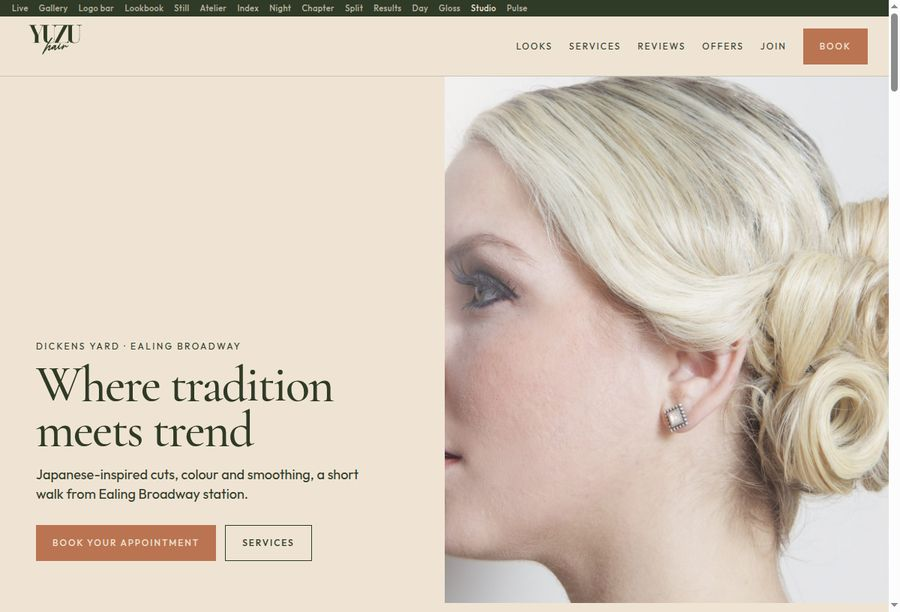
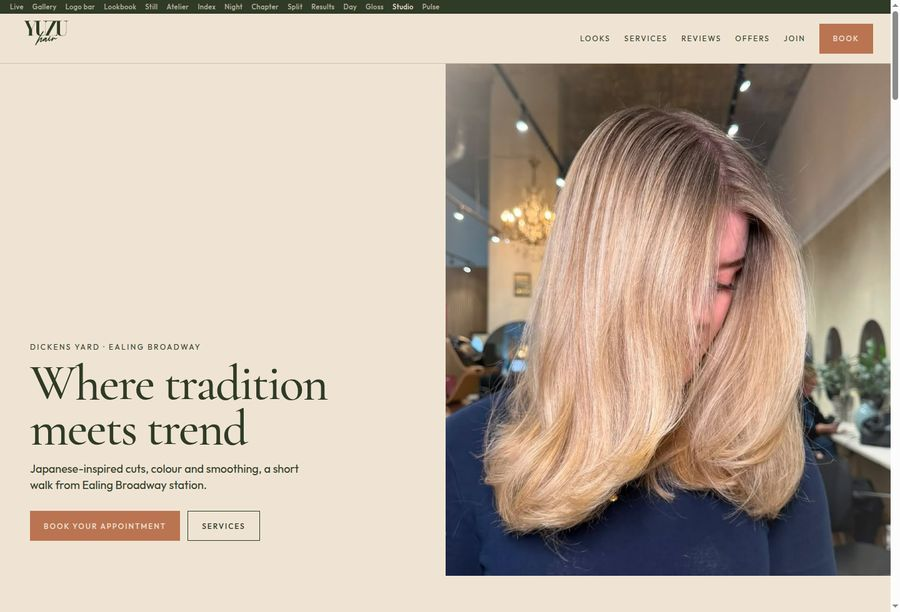
Use the Results blonde and balayage on Gloss, Studio, and Pulse.
Soft blonde replaces the sourced blonde updo, and copper balayage replaces the inverted bob, including the Studio and Pulse heroes.

diff --git a/site/versions/pulse.html b/site/versions/pulse.html
@@ -8,7 +8,7 @@
   <link rel="stylesheet" href="fonts/fonts.css" />
   <link rel="stylesheet" href="brand.css?v=2" />
   <link rel="stylesheet" href="promo.css?v=2" />
-  <link rel="stylesheet" href="fresh.css?v=1" />
+  <link rel="stylesheet" href="fresh.css?v=2" />
   <meta name="robots" content="noindex" />
   <link rel="stylesheet" href="versions-bar.css?v=5" />
 </head>
@@ -31,7 +31,7 @@
     </nav>
   </header>
   <section class="hero hero-float">
-    <span class="shine hero-photo"><img src="img/fresh/inverted-bob.jpg" alt="Inverted bob, cut blunt at the jaw" width="1800" height="1800" fetchpriority="high" /></span>
+    <span class="shine hero-photo"><img src="img/looks/copper-balayage.jpg" alt="Copper balayage, seen from behind in the salon chair" width="1080" height="1137" fetchpriority="high" /></span>
     <div class="hero-copy">
       <p class="kicker">Dickens Yard · Ealing Broadway</p>
       <h1>Where tradition meets trend</h1>
@@ -56,8 +56,8 @@
       </li>
       <li>
         <figure>
-          <span class="shine"><img src="img/fresh/blonde-updo.jpg" alt="Blonde updo in profile" width="1800" height="1440" loading="lazy" /></span>
-          <figcaption>Blonde updo</figcaption>
+          <span class="shine"><img src="img/looks/blonde-layers.jpg" alt="Soft blonde layers, photographed in the salon" width="1080" height="1080" loading="lazy" /></span>
+          <figcaption>Soft blonde</figcaption>
         </figure>
       </li>
       <li>
@@ -232,7 +232,7 @@
       <h2>Hours</h2>
       <p>Tuesday – Friday, 10am – 8pm<br />Saturday, 9am – 6pm<br />Monday &amp; Sunday, closed</p>
     </div>
-    <p class="credit">Photographs: long blonde waves, ivanovgood, CC0. Blonde updo, Elmo Love, CC BY 2.0. Inverted bob, Thirteen Of Clubs, CC BY-SA 2.0. Salon interior, Ka23 13, CC BY-SA 4.0. Stylist cutting, Rohit Verma, CC BY-SA 4.0. Braids, Rwebogora, CC BY-SA 4.0. Salon floor, Mostafa Meraji, CC0. Via Wikimedia Commons. These are not photographs of Yuzu clients.</p>
+    <p class="credit">Photographs: soft blonde and copper balayage, Yuzu Hair. Long blonde waves, ivanovgood, CC0. Salon interior, Ka23 13, CC BY-SA 4.0. Stylist cutting, Rohit Verma, CC BY-SA 4.0. Braids, Rwebogora, CC BY-SA 4.0. Salon floor, Mostafa Meraji, CC0. Via Wikimedia Commons. The other photographs are not of Yuzu clients.</p>
     <p class="legal">© 2026 Yuzu Hair &amp; Beauty · <a href="https://yuzu.hair/about/">About</a> · <a href="https://yuzu.hair/questions/">Questions</a> · <a href="https://yuzu.hair/patch/">Patch testing</a> · <a href="https://yuzu.hair/terms/">Terms</a> · <a href="https://yuzu.hair/privacy/">Privacy</a></p>
   </footer>
   <script src="menu.js?v=2"></script>

diff --git a/site/versions/studio.html b/site/versions/studio.html
@@ -8,7 +8,7 @@
   <link rel="stylesheet" href="fonts/fonts.css" />
   <link rel="stylesheet" href="brand.css?v=2" />
   <link rel="stylesheet" href="promo.css?v=2" />
-  <link rel="stylesheet" href="fresh.css?v=1" />
+  <link rel="stylesheet" href="fresh.css?v=2" />
   <meta name="robots" content="noindex" />
   <link rel="stylesheet" href="versions-bar.css?v=5" />
 </head>
@@ -40,7 +40,7 @@
           <a class="fx-ghost" href="#services">Services</a>
         </div>
     </div>
-    <span class="shine hero-photo"><img src="img/fresh/blonde-updo.jpg" alt="Blonde updo in profile" width="1800" height="1440" fetchpriority="high" /></span>
+    <span class="shine hero-photo"><img src="img/looks/blonde-layers.jpg" alt="Soft blonde layers, photographed in the salon" width="1080" height="1080" fetchpriority="high" /></span>
   </section>
   <section class="section" id="looks">
     <div class="section-head">
@@ -56,8 +56,8 @@
       </li>
       <li>
         <figure>
-          <span class="shine"><img src="img/fresh/inverted-bob.jpg" alt="Inverted bob, cut blunt at the jaw" width="1800" height="1800" loading="lazy" /></span>
-          <figcaption>Inverted bob</figcaption>
+          <span class="shine"><img src="img/looks/copper-balayage.jpg" alt="Copper balayage, seen from behind in the salon chair" width="1080" height="1137" loading="lazy" /></span>
+          <figcaption>Copper balayage</figcaption>
         </figure>
       </li>
       <li>
@@ -232,7 +232,7 @@
       <h2>Hours</h2>
       <p>Tuesday – Friday, 10am – 8pm<br />Saturday, 9am – 6pm<br />Monday &amp; Sunday, closed</p>
     </div>
-    <p class="credit">Photographs: long blonde waves, ivanovgood, CC0. Blonde updo, Elmo Love, CC BY 2.0. Inverted bob, Thirteen Of Clubs, CC BY-SA 2.0. Salon interior, Ka23 13, CC BY-SA 4.0. Stylist cutting, Rohit Verma, CC BY-SA 4.0. Braids, Rwebogora, CC BY-SA 4.0. Salon floor, Mostafa Meraji, CC0. Via Wikimedia Commons. These are not photographs of Yuzu clients.</p>
+    <p class="credit">Photographs: soft blonde and copper balayage, Yuzu Hair. Long blonde waves, ivanovgood, CC0. Salon interior, Ka23 13, CC BY-SA 4.0. Stylist cutting, Rohit Verma, CC BY-SA 4.0. Braids, Rwebogora, CC BY-SA 4.0. Salon floor, Mostafa Meraji, CC0. Via Wikimedia Commons. The other photographs are not of Yuzu clients.</p>
     <p class="legal">© 2026 Yuzu Hair &amp; Beauty · <a href="https://yuzu.hair/about/">About</a> · <a href="https://yuzu.hair/questions/">Questions</a> · <a href="https://yuzu.hair/patch/">Patch testing</a> · <a href="https://yuzu.hair/terms/">Terms</a> · <a href="https://yuzu.hair/privacy/">Privacy</a></p>
   </footer>
   <script src="menu.js?v=2"></script>

diff --git a/site/versions/gloss.html b/site/versions/gloss.html
@@ -8,7 +8,7 @@
   <link rel="stylesheet" href="fonts/fonts.css" />
   <link rel="stylesheet" href="brand.css?v=2" />
   <link rel="stylesheet" href="promo.css?v=2" />
-  <link rel="stylesheet" href="fresh.css?v=1" />
+  <link rel="stylesheet" href="fresh.css?v=2" />
   <meta name="robots" content="noindex" />
   <link rel="stylesheet" href="versions-bar.css?v=5" />
 </head>
@@ -50,14 +50,14 @@
     <ul class="looks">
       <li>
         <figure>
-          <span class="shine"><img src="img/fresh/blonde-updo.jpg" alt="Blonde updo in profile" width="1800" height="1440" loading="lazy" /></span>
-          <figcaption>Blonde updo</figcaption>
+          <span class="shine"><img src="img/looks/blonde-layers.jpg" alt="Soft blonde layers, photographed in the salon" width="1080" height="1080" loading="lazy" /></span>
+          <figcaption>Soft blonde</figcaption>
         </figure>
       </li>
       <li>
         <figure>
-          <span class="shine"><img src="img/fresh/inverted-bob.jpg" alt="Inverted bob, cut blunt at the jaw" width="1800" height="1800" loading="lazy" /></span>
-          <figcaption>Inverted bob</figcaption>
+          <span class="shine"><img src="img/looks/copper-balayage.jpg" alt="Copper balayage, seen from behind in the salon chair" width="1080" height="1137" loading="lazy" /></span>
+          <figcaption>Copper balayage</figcaption>
         </figure>
       </li>
       <li>
@@ -232,7 +232,7 @@
       <h2>Hours</h2>
       <p>Tuesday – Friday, 10am – 8pm<br />Saturday, 9am – 6pm<br />Monday &amp; Sunday, closed</p>
     </div>
-    <p class="credit">Photographs: long blonde waves, ivanovgood, CC0. Blonde updo, Elmo Love, CC BY 2.0. Inverted bob, Thirteen Of Clubs, CC BY-SA 2.0. Salon interior, Ka23 13, CC BY-SA 4.0. Stylist cutting, Rohit Verma, CC BY-SA 4.0. Braids, Rwebogora, CC BY-SA 4.0. Salon floor, Mostafa Meraji, CC0. Via Wikimedia Commons. These are not photographs of Yuzu clients.</p>
+    <p class="credit">Photographs: soft blonde and copper balayage, Yuzu Hair. Long blonde waves, ivanovgood, CC0. Salon interior, Ka23 13, CC BY-SA 4.0. Stylist cutting, Rohit Verma, CC BY-SA 4.0. Braids, Rwebogora, CC BY-SA 4.0. Salon floor, Mostafa Meraji, CC0. Via Wikimedia Commons. The other photographs are not of Yuzu clients.</p>
     <p class="legal">© 2026 Yuzu Hair &amp; Beauty · <a href="https://yuzu.hair/about/">About</a> · <a href="https://yuzu.hair/questions/">Questions</a> · <a href="https://yuzu.hair/patch/">Patch testing</a> · <a href="https://yuzu.hair/terms/">Terms</a> · <a href="https://yuzu.hair/privacy/">Privacy</a></p>
   </footer>
   <script src="menu.js?v=2"></script>

diff --git a/site/versions/gloss-prices.html b/site/versions/gloss-prices.html
@@ -8,7 +8,7 @@
   <link rel="stylesheet" href="fonts/fonts.css" />
   <link rel="stylesheet" href="brand.css?v=2" />
   <link rel="stylesheet" href="promo.css?v=2" />
-  <link rel="stylesheet" href="fresh.css?v=1" />
+  <link rel="stylesheet" href="fresh.css?v=2" />
   <meta name="robots" content="noindex" />
   <link rel="stylesheet" href="versions-bar.css?v=5" />
 </head>
@@ -71,7 +71,7 @@
       <h2>Hours</h2>
       <p>Tuesday – Friday, 10am – 8pm<br />Saturday, 9am – 6pm<br />Monday &amp; Sunday, closed</p>
     </div>
-    <p class="credit">Photographs: long blonde waves, ivanovgood, CC0. Blonde updo, Elmo Love, CC BY 2.0. Inverted bob, Thirteen Of Clubs, CC BY-SA 2.0. Salon interior, Ka23 13, CC BY-SA 4.0. Stylist cutting, Rohit Verma, CC BY-SA 4.0. Braids, Rwebogora, CC BY-SA 4.0. Salon floor, Mostafa Meraji, CC0. Via Wikimedia Commons. These are not photographs of Yuzu clients.</p>
+    <p class="credit">Photographs: soft blonde and copper balayage, Yuzu Hair. Long blonde waves, ivanovgood, CC0. Salon interior, Ka23 13, CC BY-SA 4.0. Stylist cutting, Rohit Verma, CC BY-SA 4.0. Braids, Rwebogora, CC BY-SA 4.0. Salon floor, Mostafa Meraji, CC0. Via Wikimedia Commons. The other photographs are not of Yuzu clients.</p>
     <p class="legal">© 2026 Yuzu Hair &amp; Beauty · <a href="https://yuzu.hair/about/">About</a> · <a href="https://yuzu.hair/questions/">Questions</a> · <a href="https://yuzu.hair/patch/">Patch testing</a> · <a href="https://yuzu.hair/terms/">Terms</a> · <a href="https://yuzu.hair/privacy/">Privacy</a></p>
   </footer>
   <script src="menu.js?v=2"></script>

diff --git a/site/versions/pulse-prices.html b/site/versions/pulse-prices.html
@@ -8,7 +8,7 @@
   <link rel="stylesheet" href="fonts/fonts.css" />
   <link rel="stylesheet" href="brand.css?v=2" />
   <link rel="stylesheet" href="promo.css?v=2" />
-  <link rel="stylesheet" href="fresh.css?v=1" />
+  <link rel="stylesheet" href="fresh.css?v=2" />
   <meta name="robots" content="noindex" />
   <link rel="stylesheet" href="versions-bar.css?v=5" />
 </head>
@@ -71,7 +71,7 @@
       <h2>Hours</h2>
       <p>Tuesday – Friday, 10am – 8pm<br />Saturday, 9am – 6pm<br />Monday &amp; Sunday, closed</p>
     </div>
-    <p class="credit">Photographs: long blonde waves, ivanovgood, CC0. Blonde updo, Elmo Love, CC BY 2.0. Inverted bob, Thirteen Of Clubs, CC BY-SA 2.0. Salon interior, Ka23 13, CC BY-SA 4.0. Stylist cutting, Rohit Verma, CC BY-SA 4.0. Braids, Rwebogora, CC BY-SA 4.0. Salon floor, Mostafa Meraji, CC0. Via Wikimedia Commons. These are not photographs of Yuzu clients.</p>
+    <p class="credit">Photographs: soft blonde and copper balayage, Yuzu Hair. Long blonde waves, ivanovgood, CC0. Salon interior, Ka23 13, CC BY-SA 4.0. Stylist cutting, Rohit Verma, CC BY-SA 4.0. Braids, Rwebogora, CC BY-SA 4.0. Salon floor, Mostafa Meraji, CC0. Via Wikimedia Commons. The other photographs are not of Yuzu clients.</p>
     <p class="legal">© 2026 Yuzu Hair &amp; Beauty · <a href="https://yuzu.hair/about/">About</a> · <a href="https://yuzu.hair/questions/">Questions</a> · <a href="https://yuzu.hair/patch/">Patch testing</a> · <a href="https://yuzu.hair/terms/">Terms</a> · <a href="https://yuzu.hair/privacy/">Privacy</a></p>
   </footer>
   <script src="menu.js?v=2"></script>

diff --git a/site/versions/studio-prices.html b/site/versions/studio-prices.html
@@ -8,7 +8,7 @@
   <link rel="stylesheet" href="fonts/fonts.css" />
   <link rel="stylesheet" href="brand.css?v=2" />
   <link rel="stylesheet" href="promo.css?v=2" />
-  <link rel="stylesheet" href="fresh.css?v=1" />
+  <link rel="stylesheet" href="fresh.css?v=2" />
   <meta name="robots" content="noindex" />
   <link rel="stylesheet" href="versions-bar.css?v=5" />
 </head>
@@ -71,7 +71,7 @@
       <h2>Hours</h2>
       <p>Tuesday – Friday, 10am – 8pm<br />Saturday, 9am – 6pm<br />Monday &amp; Sunday, closed</p>
     </div>
-    <p class="credit">Photographs: long blonde waves, ivanovgood, CC0. Blonde updo, Elmo Love, CC BY 2.0. Inverted bob, Thirteen Of Clubs, CC BY-SA 2.0. Salon interior, Ka23 13, CC BY-SA 4.0. Stylist cutting, Rohit Verma, CC BY-SA 4.0. Braids, Rwebogora, CC BY-SA 4.0. Salon floor, Mostafa Meraji, CC0. Via Wikimedia Commons. These are not photographs of Yuzu clients.</p>
+    <p class="credit">Photographs: soft blonde and copper balayage, Yuzu Hair. Long blonde waves, ivanovgood, CC0. Salon interior, Ka23 13, CC BY-SA 4.0. Stylist cutting, Rohit Verma, CC BY-SA 4.0. Braids, Rwebogora, CC BY-SA 4.0. Salon floor, Mostafa Meraji, CC0. Via Wikimedia Commons. The other photographs are not of Yuzu clients.</p>
     <p class="legal">© 2026 Yuzu Hair &amp; Beauty · <a href="https://yuzu.hair/about/">About</a> · <a href="https://yuzu.hair/questions/">Questions</a> · <a href="https://yuzu.hair/patch/">Patch testing</a> · <a href="https://yuzu.hair/terms/">Terms</a> · <a href="https://yuzu.hair/privacy/">Privacy</a></p>
   </footer>
   <script src="menu.js?v=2"></script>

diff --git a/site/versions/fresh.css b/site/versions/fresh.css
@@ -288,6 +288,7 @@ body.fx a.fx-ghost { border: 1px solid currentColor; }
 /* ——— Pulse: rounded, bright, a card over the picture ——— */
 .pulse .hero-float { padding: 22px 28px 0; }
 .pulse .hero-photo { height: min(56vh, 540px); border-radius: 28px; }
+.pulse .hero-photo img { object-position: center 8%; }
 .pulse .hero-copy {
   position: relative;
   z-index: 2;
